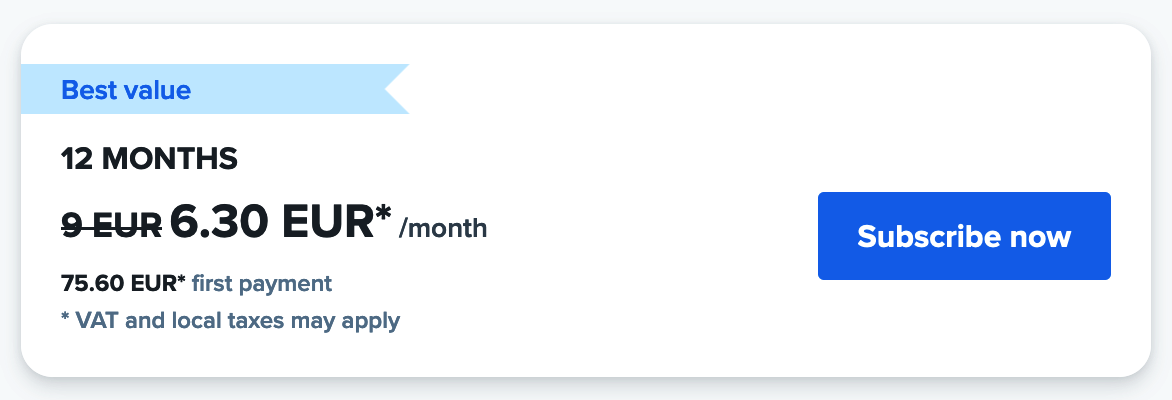
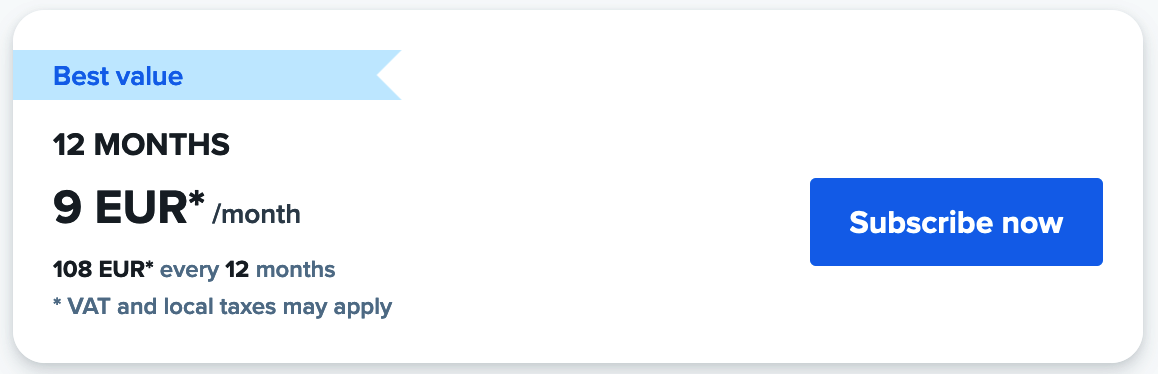
[S][LANDING-PAGE][IMP] update price freepik

Changed region(s): [[0.0, 0.1176, 0.9948, 1.0]]

diff --git a/constants/price-scheme.js b/constants/price-scheme.js
@@ -2100,6 +2100,8 @@ export const providerList = [
       'Akun dishare HANYA ke 3 member dalam 1 grup',
       'Member yang telah join ke grup dapat menikmati fitur Premium selama 1 bulan',
     ],
+    notes:
+      'Harga paket dapat berubah sewaktu-waktu dikarenakan fluktuatif mengikuti kurs yang berlaku',
     informations: [
       {
         title: 'Nama Paket',
@@ -2147,6 +2149,8 @@ export const providerList = [
       'Akun dishare HANYA ke 3 member dalam 1 grup',
       'Member yang telah join ke grup dapat menikmati fitur Premium selama 1 tahun',
     ],
+    notes:
+      'Harga paket dapat berubah sewaktu-waktu dikarenakan fluktuatif mengikuti kurs yang berlaku',
     informations: [
       {
         title: 'Nama Paket',
@@ -2155,11 +2159,11 @@ export const providerList = [
       },
       {
         title: 'Harga Premium 1 Tahun',
-        value: '€75.60',
+        value: '€108.00',
       },
       {
         title: 'Harga setelah dikenakan pajak 11%',
-        value: '€83.92 = Rp1.451.831',
+        value: '€119.88 = Rp2.074.044',
       },
       {
         title: 'Jumlah Member Dalam 1 Grup',
@@ -2167,15 +2171,15 @@ export const providerList = [
       },
       {
         title: 'Harga Patungan',
-        value: 'Rp1.451.831 ÷ 3 = Rp483.943.57',
+        value: 'Rp2.074.044 ÷ 3 = Rp691.347.96',
       },
       {
         title: 'Biaya Admin Seakun',
-        value: 'Rp106.056.43',
+        value: 'Rp98.652.04',
       },
       {
         title: 'Harga Paket 1 Tahun',
-        value: 'Rp590.000',
+        value: 'Rp790.000',
         is_total: true,
       },
     ],

diff --git a/components/organisms/PartnershipSection/index.vue b/components/organisms/PartnershipSection/index.vue
@@ -72,7 +72,7 @@ export default {
         },
         {
           id: 3,
-          value: '24',
+          value: '27',
           label: 'Total Layanan',
         },
         {
